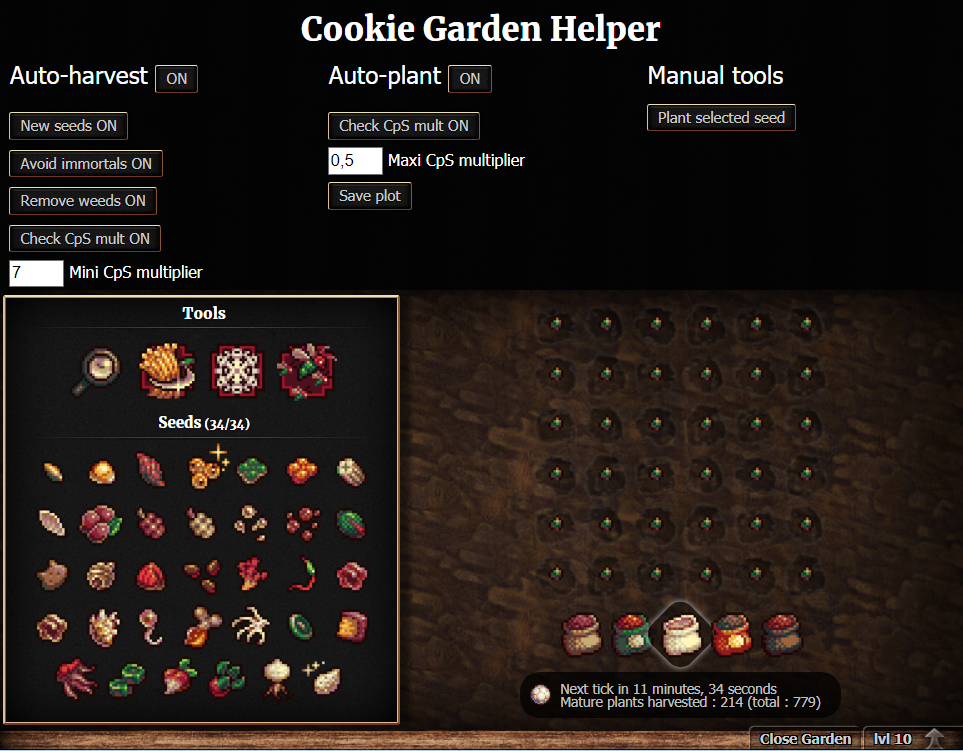
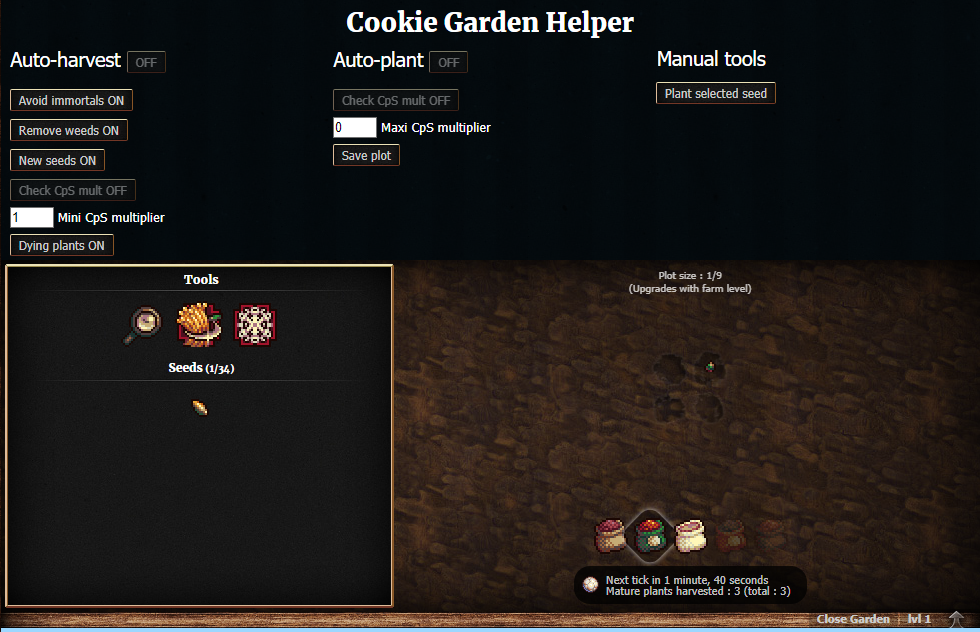
Auto-harvest rework
- refactored auto-harvest logic
- added harvesting dying seeds
- UI: changed the order of some buttons
- updated README
- updated screenshot

diff --git a/cookie-garden-helper.js b/cookie-garden-helper.js
@@ -21,6 +21,7 @@ class Config {
       autoHarvestWeeds: true,
       autoHarvestCheckCpSMult: false,
       autoHarvestMiniCpSMult: { value: 1, min: 0 },
+      autoHarvestDying: true,
       autoPlant: false,
       autoPlantCheckCpSMult: false,
       autoPlantMaxiCpSMult: { value: 0, min: 0 },
@@ -68,9 +69,17 @@ class Garden {
     return { seedId: tile[0], age: tile[1] };
   }
 
-  static plantIsMature(tile) {
+  static getPlantStage(tile) {
     let plant = this.getPlant(tile.seedId);
-    return tile.age >= plant.mature;
+    if (tile.age < plant.mature) {
+      return 'young';
+    } else {
+      if ((tile.age + Math.ceil(plant.ageTick + plant.ageTickR)) < 100) {
+        return 'mature';
+      } else {
+        return 'dying';
+      }
+    }
   }
 
   static tileIsEmpty(x, y) { return this.getTile(x, y).seedId == 0; }
@@ -99,24 +108,49 @@ class Garden {
     }
   }
 
+  static handleYoung(config, plant, x, y) {
+    if (plant.weed && config.autoHarvestWeeds) {
+      this.harvest(x, y);
+    }
+  }
+
+  static handleMature(config, plant, x, y) {
+    if (!plant.unlocked && config.autoHarvestNewSeeds) {
+      this.harvest(x, y);
+    } else if (config.autoHarvestCheckCpSMult &&
+               this.CpSMult >= config.autoHarvestMiniCpSMult.value) {
+      this.harvest(x, y);
+    }
+  }
+
+  static handleDying(config, plant, x, y) {
+    if (config.autoHarvestDying) {
+      this.harvest(x, y);
+    }
+  }
+
   static run(config) {
     this.forEachTile((x, y) => {
       if (config.autoHarvest && !this.tileIsEmpty(x, y)) {
         let tile = this.getTile(x, y);
         let plant = this.getPlant(tile.seedId);
 
-        // I hope this below is correct :S
-        if (!plant.unlocked && this.plantIsMature(tile) &&
-            config.autoHarvestNewSeeds) {
-          this.harvest(x, y);
-        } else if( !(plant.immortal && config.autoHarvestAvoidImmortals)) {
-          if (plant.weed && config.autoHarvestWeeds) {
-            this.harvest(x, y);
-          } else if (this.plantIsMature(tile)) {
-            if (!config.autoHarvestCheckCpSMult ||
-                this.CpSMult >= config.autoHarvestMiniCpSMult.value) {
-              this.harvest(x, y);
-            }
+        if (plant.immortal && config.autoHarvestAvoidImmortals) {
+          // do nothing
+        } else {
+          let stage = this.getPlantStage(tile);
+          switch (stage) {
+            case 'young':
+              this.handleYoung(config, plant, x, y);
+              break;
+            case 'mature':
+              this.handleMature(config, plant, x, y);
+              break;
+            case 'dying':
+              this.handleDying(config, plant, x, y);
+              break;
+            default:
+              console.log(`Unexpected plant stage: ${stage}`);
           }
         }
       }
@@ -260,13 +294,6 @@ class UI {
       </h2>
       <p>
         ${this.button(
-          'autoHarvestNewSeeds', 'New seeds',
-          'Harvest new seeds as soon as they are mature', true,
-          config.autoHarvestNewSeeds
-        )}
-      </p>
-      <p>
-        ${this.button(
           'autoHarvestAvoidImmortals', 'Avoid immortals',
           'Do not harvest immortal plants', true,
           config.autoHarvestAvoidImmortals
@@ -281,6 +308,13 @@ class UI {
       </p>
       <p>
         ${this.button(
+          'autoHarvestNewSeeds', 'New seeds',
+          'Harvest new seeds as soon as they are mature', true,
+          config.autoHarvestNewSeeds
+        )}
+      </p>
+      <p>
+        ${this.button(
           'autoHarvestCheckCpSMult', 'Check CpS mult',
           'Check the CpS multiplier before harvesting (see below)', true,
           config.autoHarvestCheckCpSMult
@@ -291,6 +325,13 @@ class UI {
           'autoHarvestMiniCpSMult', 'Mini CpS multiplier',
           'Minimum CpS multiplier for the auto-harvest to happen',
           config.autoHarvestMiniCpSMult
+        )}
+      </p>
+      <p>
+        ${this.button(
+          'autoHarvestDying', 'Dying plants',
+          'Harvest dying plants', true,
+          config.autoHarvestDying
         )}
       </p>
     </div>

diff --git a/src/Garden.js b/src/Garden.js
@@ -23,9 +23,17 @@ class Garden {
     return { seedId: tile[0], age: tile[1] };
   }
 
-  static plantIsMature(tile) {
+  static getPlantStage(tile) {
     let plant = this.getPlant(tile.seedId);
-    return tile.age >= plant.mature;
+    if (tile.age < plant.mature) {
+      return 'young';
+    } else {
+      if ((tile.age + Math.ceil(plant.ageTick + plant.ageTickR)) < 100) {
+        return 'mature';
+      } else {
+        return 'dying';
+      }
+    }
   }
 
   static tileIsEmpty(x, y) { return this.getTile(x, y).seedId == 0; }
@@ -54,24 +62,49 @@ class Garden {
     }
   }
 
+  static handleYoung(config, plant, x, y) {
+    if (plant.weed && config.autoHarvestWeeds) {
+      this.harvest(x, y);
+    }
+  }
+
+  static handleMature(config, plant, x, y) {
+    if (!plant.unlocked && config.autoHarvestNewSeeds) {
+      this.harvest(x, y);
+    } else if (config.autoHarvestCheckCpSMult &&
+               this.CpSMult >= config.autoHarvestMiniCpSMult.value) {
+      this.harvest(x, y);
+    }
+  }
+
+  static handleDying(config, plant, x, y) {
+    if (config.autoHarvestDying) {
+      this.harvest(x, y);
+    }
+  }
+
   static run(config) {
     this.forEachTile((x, y) => {
       if (config.autoHarvest && !this.tileIsEmpty(x, y)) {
         let tile = this.getTile(x, y);
         let plant = this.getPlant(tile.seedId);
 
-        // I hope this below is correct :S
-        if (!plant.unlocked && this.plantIsMature(tile) &&
-            config.autoHarvestNewSeeds) {
-          this.harvest(x, y);
-        } else if( !(plant.immortal && config.autoHarvestAvoidImmortals)) {
-          if (plant.weed && config.autoHarvestWeeds) {
-            this.harvest(x, y);
-          } else if (this.plantIsMature(tile)) {
-            if (!config.autoHarvestCheckCpSMult ||
-                this.CpSMult >= config.autoHarvestMiniCpSMult.value) {
-              this.harvest(x, y);
-            }
+        if (plant.immortal && config.autoHarvestAvoidImmortals) {
+          // do nothing
+        } else {
+          let stage = this.getPlantStage(tile);
+          switch (stage) {
+            case 'young':
+              this.handleYoung(config, plant, x, y);
+              break;
+            case 'mature':
+              this.handleMature(config, plant, x, y);
+              break;
+            case 'dying':
+              this.handleDying(config, plant, x, y);
+              break;
+            default:
+              console.log(`Unexpected plant stage: ${stage}`);
           }
         }
       }

diff --git a/src/UI.js b/src/UI.js
@@ -125,13 +125,6 @@ class UI {
       </h2>
       <p>
         ${this.button(
-          'autoHarvestNewSeeds', 'New seeds',
-          'Harvest new seeds as soon as they are mature', true,
-          config.autoHarvestNewSeeds
-        )}
-      </p>
-      <p>
-        ${this.button(
           'autoHarvestAvoidImmortals', 'Avoid immortals',
           'Do not harvest immortal plants', true,
           config.autoHarvestAvoidImmortals
@@ -146,6 +139,13 @@ class UI {
       </p>
       <p>
         ${this.button(
+          'autoHarvestNewSeeds', 'New seeds',
+          'Harvest new seeds as soon as they are mature', true,
+          config.autoHarvestNewSeeds
+        )}
+      </p>
+      <p>
+        ${this.button(
           'autoHarvestCheckCpSMult', 'Check CpS mult',
           'Check the CpS multiplier before harvesting (see below)', true,
           config.autoHarvestCheckCpSMult
@@ -156,6 +156,13 @@ class UI {
           'autoHarvestMiniCpSMult', 'Mini CpS multiplier',
           'Minimum CpS multiplier for the auto-harvest to happen',
           config.autoHarvestMiniCpSMult
+        )}
+      </p>
+      <p>
+        ${this.button(
+          'autoHarvestDying', 'Dying plants',
+          'Harvest dying plants', true,
+          config.autoHarvestDying
         )}
       </p>
     </div>

diff --git a/src/Config.js b/src/Config.js
@@ -8,6 +8,7 @@ class Config {
       autoHarvestWeeds: true,
       autoHarvestCheckCpSMult: false,
       autoHarvestMiniCpSMult: { value: 1, min: 0 },
+      autoHarvestDying: true,
       autoPlant: false,
       autoPlantCheckCpSMult: false,
       autoPlantMaxiCpSMult: { value: 0, min: 0 },

diff --git a/README.md b/README.md
@@ -4,13 +4,57 @@ Automate your garden in Cookie Clicker
 
 ## How to use
 
-Copy this code and save it as a bookmark. Paste it in the URL section. To activate, click the bookmark when the game's open.
+Copy this code and save it as a bookmark. Paste it in the URL section.
+To activate, click the bookmark when the game's open.
 
 ```javascript
 javascript: (function () {
     Game.LoadMod('https://rawgit.com/yannprada/cookie-garden-helper/master/cookie-garden-helper.js');
 }());
 ```
+
+## How it works
+
+The mod loop through each unlocked tile, then tries to auto-harvest
+or auto-plant, depending on what is activated.
+
+### Auto-harvest
+
+First, it will check if the tile is empty.
+
+If not, it will check if the plant is immortal. If it is, and the **Avoid immortals** option is **ON**, ignore this tile.
+
+If not, it will compute the plant stage. Below is a list of these stages, and
+the conditions when the plant will be harvested:
+
+- young:
+  - if it is a weed, and the option **Remove weeds** is **ON**
+- mature:
+  - if it is a new seed, and the option **New seeds** is **ON**
+  - if the option **Check CpS Mult** is **ON**, and the current CpS multiplier
+  is above or equal to the one specified at **Mini CpS multiplier**
+- dying:
+  - if the plant is dying, and the option **Dying plants** is **ON**
+
+### Auto-plant
+
+This one will work if:
+
+- the tile is empty
+- a plot has been previously saved with the button **Save plot**
+- the option **Check CpS Mult** is:
+  - **ON**, and the current CpS multiplier is
+below or equal to the one specified at **Maxi CpS multiplier**
+  - **OFF**
+
+### Manual tools
+
+This section is pretty obvious. Only one tool is there for now:
+
+- **Plant selected seed**:
+  - select a seed you have unlocked
+  - click this button to fill all the empty tiles of your plot
+  - (don't forget to deselect the seed)
 
 ## Screenshot
 
